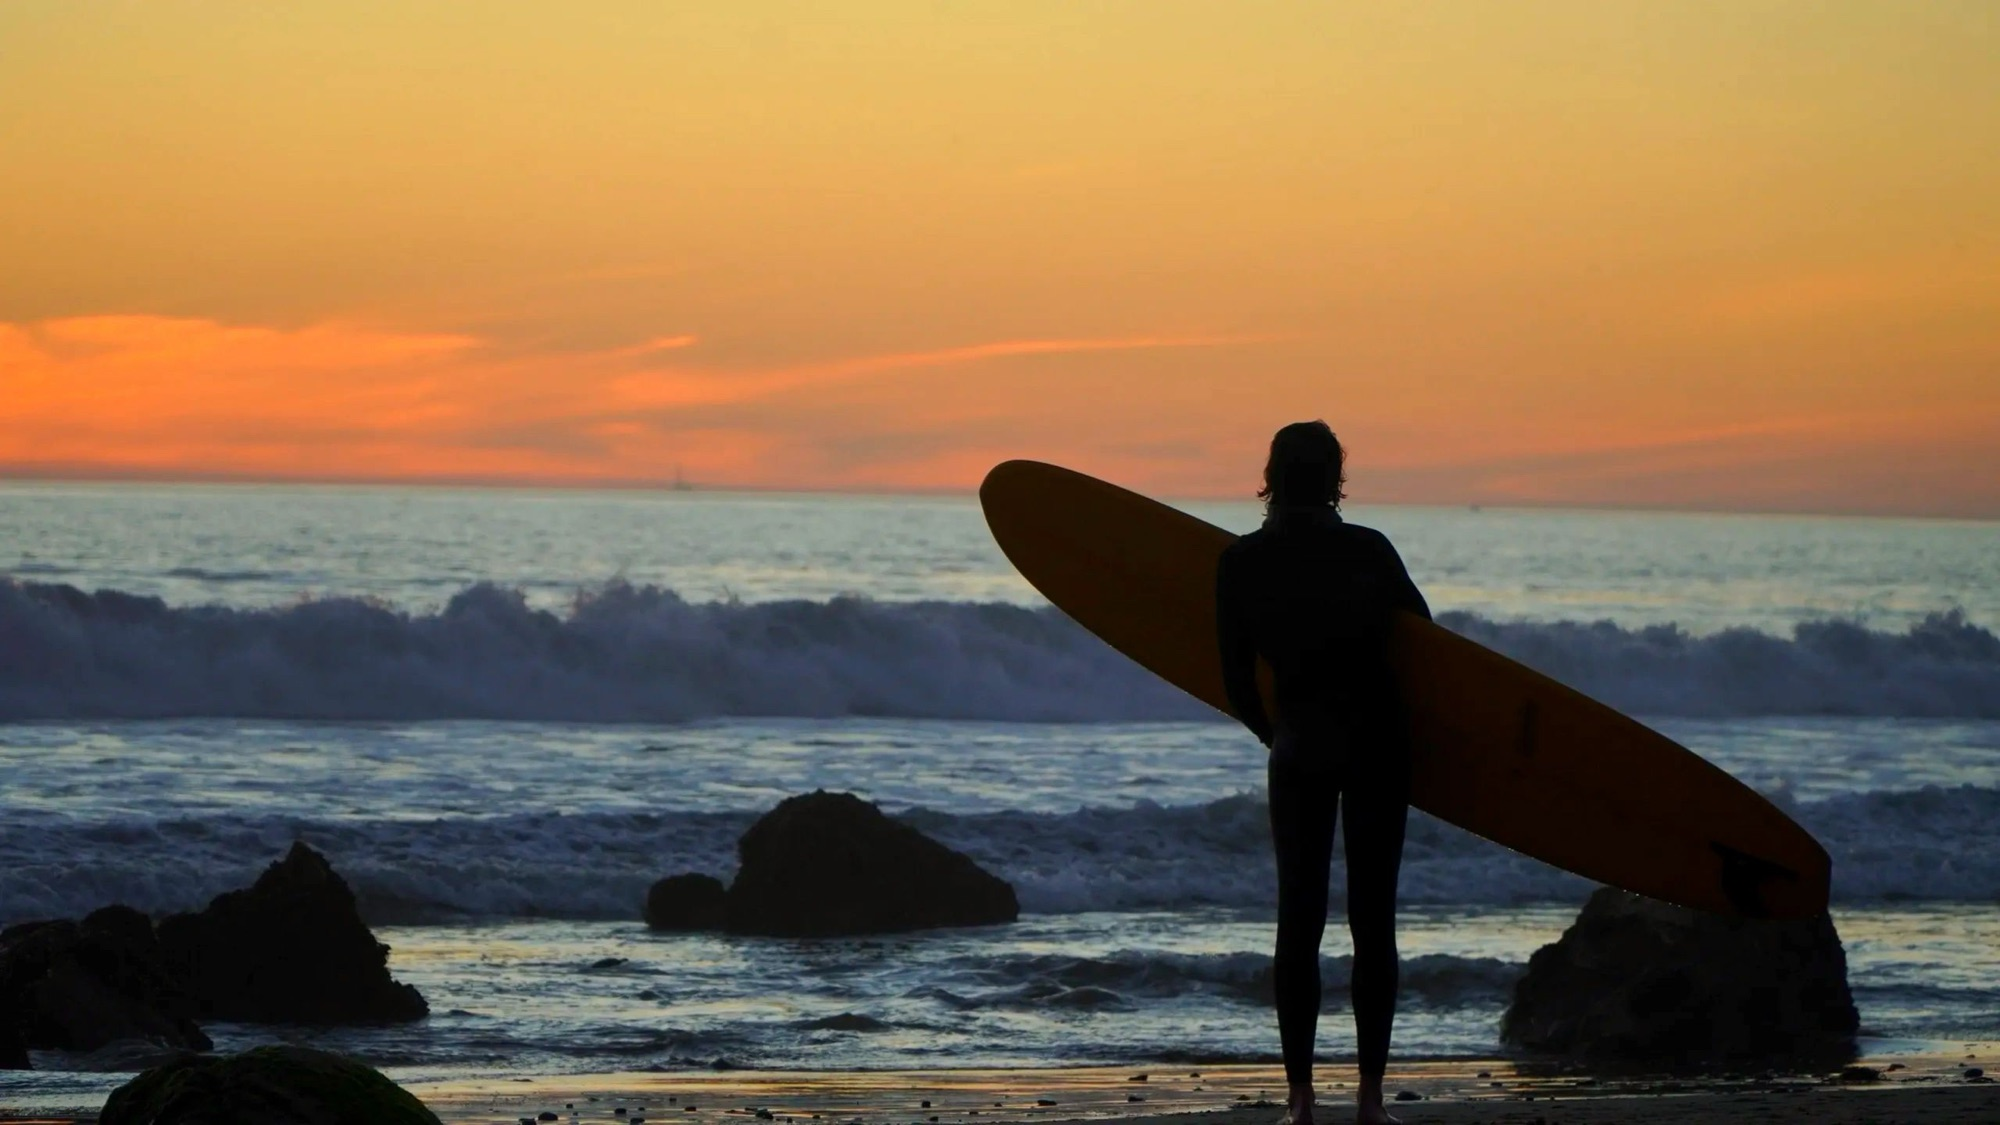
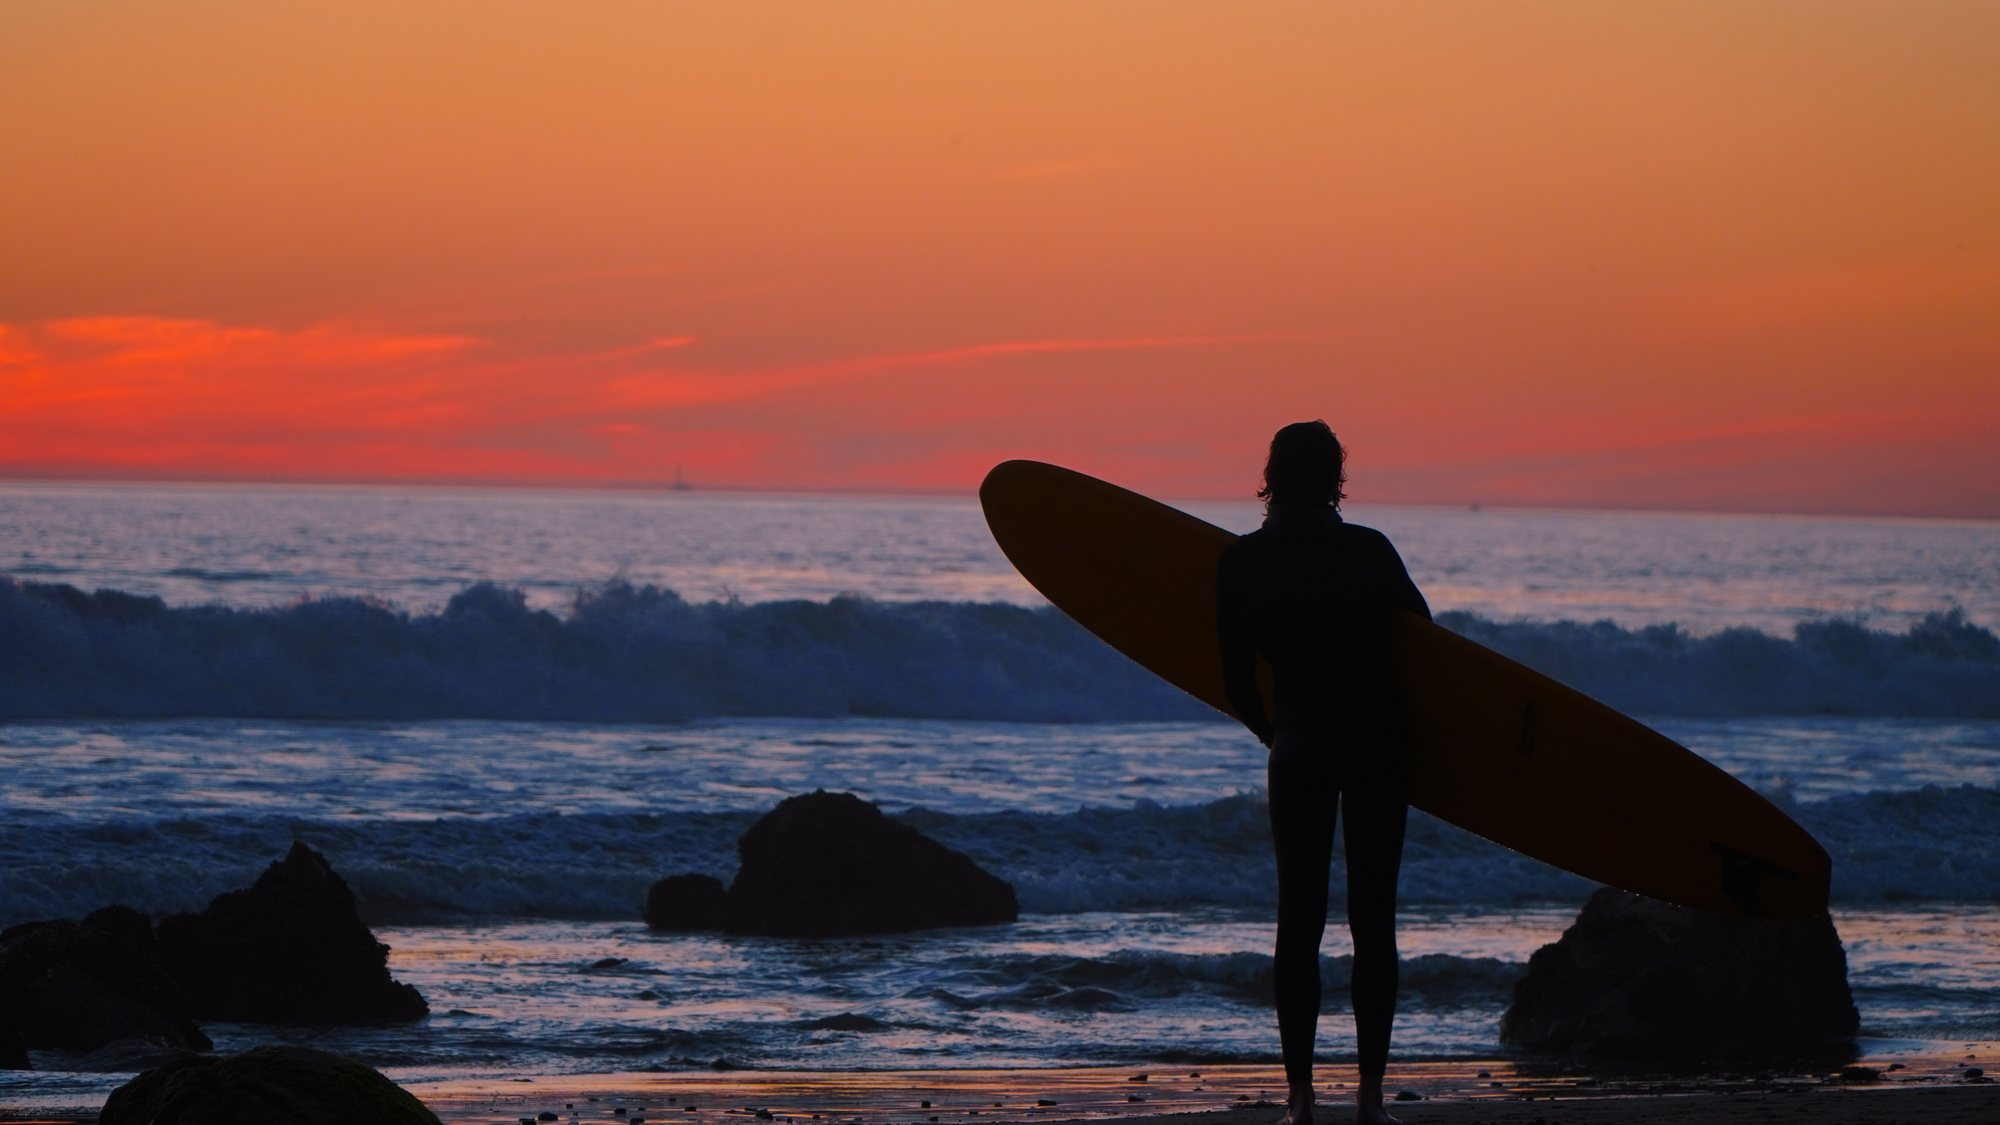
Dawn Patrol from the 12000 px edit; Green Water II becomes Copper and Teal
- Dawn Patrol: master is DSC07020-2.jpg (12000 px, the warm edit), so
  all four sizes including 24x36; web images regenerated from it.
- Copper and Teal: the gallery still called it Green Water II (so the
  lightbox couldn't find its shop entry); renamed there and in the
  sitemap. Master is the 8F2519A5 JPG, shown landscape as shot (the old
  web copy was rotated 90 degrees). New web images 15-copper-and-teal.*.

diff --git a/prints/copper-and-teal.html b/prints/copper-and-teal.html
@@ -14,7 +14,7 @@
   <meta property="og:title" content="Copper and Teal | Fine-Art Print | Ox Hollow Media" />
   <meta property="og:description" content="Teal water against oxidised copper-red rock. Archival print, made to order, free US shipping." />
   <meta property="og:url" content="https://oxhollowmedia.com/prints/copper-and-teal" />
-  <meta property="og:image" content="https://oxhollowmedia.com/images/portfolio/ocean/15-green-water-ii.jpg" />
+  <meta property="og:image" content="https://oxhollowmedia.com/images/portfolio/ocean/15-copper-and-teal.jpg" />
   <meta name="twitter:card" content="summary_large_image" />
 
   <link rel="canonical" href="https://oxhollowmedia.com/prints/copper-and-teal" />
@@ -23,7 +23,7 @@
   <link rel="preconnect" href="https://fonts.gstatic.com" crossorigin />
   <link href="https://fonts.googleapis.com/css2?family=Cormorant+Garamond:ital,wght@0,400;0,500;0,600;1,400;1,500&family=DM+Sans:wght@300;400;500&display=swap" rel="stylesheet" />
   <link rel="stylesheet" href="/css/styles.css?v=44" />
-  <script type="application/ld+json">{"@context": "https://schema.org", "@type": "Product", "name": "Copper and Teal", "description": "Teal water against oxidised copper-red rock.", "image": "https://oxhollowmedia.com/images/portfolio/ocean/15-green-water-ii.jpg", "brand": {"@type": "Brand", "name": "Ox Hollow Media"}, "offers": [{"@type": "Offer", "name": "8×12″ archival print", "price": "35", "priceCurrency": "USD", "availability": "https://schema.org/InStock", "url": "https://oxhollowmedia.com/prints/copper-and-teal", "shippingDetails": {"@type": "OfferShippingDetails", "shippingRate": {"@type": "MonetaryAmount", "value": "0", "currency": "USD"}, "shippingDestination": {"@type": "DefinedRegion", "addressCountry": "US"}}}, {"@type": "Offer", "name": "12×18″ archival print", "price": "50", "priceCurrency": "USD", "availability": "https://schema.org/InStock", "url": "https://oxhollowmedia.com/prints/copper-and-teal", "shippingDetails": {"@type": "OfferShippingDetails", "shippingRate": {"@type": "MonetaryAmount", "value": "0", "currency": "USD"}, "shippingDestination": {"@type": "DefinedRegion", "addressCountry": "US"}}}, {"@type": "Offer", "name": "16×24″ archival print", "price": "55", "priceCurrency": "USD", "availability": "https://schema.org/InStock", "url": "https://oxhollowmedia.com/prints/copper-and-teal", "shippingDetails": {"@type": "OfferShippingDetails", "shippingRate": {"@type": "MonetaryAmount", "value": "0", "currency": "USD"}, "shippingDestination": {"@type": "DefinedRegion", "addressCountry": "US"}}}]}</script>
+  <script type="application/ld+json">{"@context": "https://schema.org", "@type": "Product", "name": "Copper and Teal", "description": "Teal water against oxidised copper-red rock.", "image": "https://oxhollowmedia.com/images/portfolio/ocean/15-copper-and-teal.jpg", "brand": {"@type": "Brand", "name": "Ox Hollow Media"}, "offers": [{"@type": "Offer", "name": "8×12″ archival print", "price": "35", "priceCurrency": "USD", "availability": "https://schema.org/InStock", "url": "https://oxhollowmedia.com/prints/copper-and-teal", "shippingDetails": {"@type": "OfferShippingDetails", "shippingRate": {"@type": "MonetaryAmount", "value": "0", "currency": "USD"}, "shippingDestination": {"@type": "DefinedRegion", "addressCountry": "US"}}}, {"@type": "Offer", "name": "12×18″ archival print", "price": "50", "priceCurrency": "USD", "availability": "https://schema.org/InStock", "url": "https://oxhollowmedia.com/prints/copper-and-teal", "shippingDetails": {"@type": "OfferShippingDetails", "shippingRate": {"@type": "MonetaryAmount", "value": "0", "currency": "USD"}, "shippingDestination": {"@type": "DefinedRegion", "addressCountry": "US"}}}, {"@type": "Offer", "name": "16×24″ archival print", "price": "55", "priceCurrency": "USD", "availability": "https://schema.org/InStock", "url": "https://oxhollowmedia.com/prints/copper-and-teal", "shippingDetails": {"@type": "OfferShippingDetails", "shippingRate": {"@type": "MonetaryAmount", "value": "0", "currency": "USD"}, "shippingDestination": {"@type": "DefinedRegion", "addressCountry": "US"}}}]}</script>
 </head>
 <body class="light-nav">
 
@@ -69,7 +69,7 @@
       <p class="crumb"><a href="/prints">← All prints</a></p>
       <div class="detail-grid">
         <div class="detail-frame">
-          <picture><source type="image/webp" srcset="/images/portfolio/ocean/15-green-water-ii.webp"><img src="/images/portfolio/ocean/15-green-water-ii.jpg" width="1600" height="2000" decoding="async" alt="Teal water against oxidised copper-red rock" fetchpriority="high"></picture>
+          <picture><source type="image/webp" srcset="/images/portfolio/ocean/15-copper-and-teal.webp"><img src="/images/portfolio/ocean/15-copper-and-teal.jpg" width="2000" height="1600" decoding="async" alt="Teal water against oxidised copper-red rock" fetchpriority="high"></picture>
         </div>
         <div class="detail-buy">
           <p class="section-label">Fine art print</p>

diff --git a/prints/dawn-patrol.html b/prints/dawn-patrol.html
@@ -23,7 +23,7 @@
   <link rel="preconnect" href="https://fonts.gstatic.com" crossorigin />
   <link href="https://fonts.googleapis.com/css2?family=Cormorant+Garamond:ital,wght@0,400;0,500;0,600;1,400;1,500&family=DM+Sans:wght@300;400;500&display=swap" rel="stylesheet" />
   <link rel="stylesheet" href="/css/styles.css?v=44" />
-  <script type="application/ld+json">{"@context": "https://schema.org", "@type": "Product", "name": "Dawn Patrol", "description": "A surfer holding a longboard at the water's edge, silhouetted against a sunset sky.", "image": "https://oxhollowmedia.com/images/portfolio/ocean/22-dawn-patrol.jpg", "brand": {"@type": "Brand", "name": "Ox Hollow Media"}, "offers": [{"@type": "Offer", "name": "8×12″ archival print", "price": "35", "priceCurrency": "USD", "availability": "https://schema.org/InStock", "url": "https://oxhollowmedia.com/prints/dawn-patrol", "shippingDetails": {"@type": "OfferShippingDetails", "shippingRate": {"@type": "MonetaryAmount", "value": "0", "currency": "USD"}, "shippingDestination": {"@type": "DefinedRegion", "addressCountry": "US"}}}, {"@type": "Offer", "name": "12×18″ archival print", "price": "50", "priceCurrency": "USD", "availability": "https://schema.org/InStock", "url": "https://oxhollowmedia.com/prints/dawn-patrol", "shippingDetails": {"@type": "OfferShippingDetails", "shippingRate": {"@type": "MonetaryAmount", "value": "0", "currency": "USD"}, "shippingDestination": {"@type": "DefinedRegion", "addressCountry": "US"}}}, {"@type": "Offer", "name": "16×24″ archival print", "price": "55", "priceCurrency": "USD", "availability": "https://schema.org/InStock", "url": "https://oxhollowmedia.com/prints/dawn-patrol", "shippingDetails": {"@type": "OfferShippingDetails", "shippingRate": {"@type": "MonetaryAmount", "value": "0", "currency": "USD"}, "shippingDestination": {"@type": "DefinedRegion", "addressCountry": "US"}}}]}</script>
+  <script type="application/ld+json">{"@context": "https://schema.org", "@type": "Product", "name": "Dawn Patrol", "description": "A surfer holding a longboard at the water's edge, silhouetted against a sunset sky.", "image": "https://oxhollowmedia.com/images/portfolio/ocean/22-dawn-patrol.jpg", "brand": {"@type": "Brand", "name": "Ox Hollow Media"}, "offers": [{"@type": "Offer", "name": "8×12″ archival print", "price": "35", "priceCurrency": "USD", "availability": "https://schema.org/InStock", "url": "https://oxhollowmedia.com/prints/dawn-patrol", "shippingDetails": {"@type": "OfferShippingDetails", "shippingRate": {"@type": "MonetaryAmount", "value": "0", "currency": "USD"}, "shippingDestination": {"@type": "DefinedRegion", "addressCountry": "US"}}}, {"@type": "Offer", "name": "12×18″ archival print", "price": "50", "priceCurrency": "USD", "availability": "https://schema.org/InStock", "url": "https://oxhollowmedia.com/prints/dawn-patrol", "shippingDetails": {"@type": "OfferShippingDetails", "shippingRate": {"@type": "MonetaryAmount", "value": "0", "currency": "USD"}, "shippingDestination": {"@type": "DefinedRegion", "addressCountry": "US"}}}, {"@type": "Offer", "name": "16×24″ archival print", "price": "55", "priceCurrency": "USD", "availability": "https://schema.org/InStock", "url": "https://oxhollowmedia.com/prints/dawn-patrol", "shippingDetails": {"@type": "OfferShippingDetails", "shippingRate": {"@type": "MonetaryAmount", "value": "0", "currency": "USD"}, "shippingDestination": {"@type": "DefinedRegion", "addressCountry": "US"}}}, {"@type": "Offer", "name": "24×36″ archival print", "price": "70", "priceCurrency": "USD", "availability": "https://schema.org/InStock", "url": "https://oxhollowmedia.com/prints/dawn-patrol", "shippingDetails": {"@type": "OfferShippingDetails", "shippingRate": {"@type": "MonetaryAmount", "value": "0", "currency": "USD"}, "shippingDestination": {"@type": "DefinedRegion", "addressCountry": "US"}}}]}</script>
 </head>
 <body class="light-nav">
 
@@ -85,6 +85,9 @@
             </a>
             <a class="buy-btn is-pending" data-slug="dawn-patrol" data-size="16x24" href="/contact?print=Dawn%20Patrol%20%2816%C3%9724%29">
               <span class="size">Buy 16×24″</span><span class="price">$55</span>
+            </a>
+            <a class="buy-btn is-pending" data-slug="dawn-patrol" data-size="24x36" href="/contact?print=Dawn%20Patrol%20%2824%C3%9736%29">
+              <span class="size">Buy 24×36″</span><span class="price">$70</span>
             </a>
           </div>
           <p class="buy-note"><strong>Free US shipping.</strong> Each print is made to order on archival paper. Allow a few days for printing plus transit. Arrives damaged or wrong? Email a photo within 14 days and I'll send a free replacement. <a href="/shipping-returns">Shipping &amp; returns</a>. Questions, other sizes, or framing? <a href="/contact?print=Dawn%20Patrol">Get in touch</a>.</p>

diff --git a/gallery.html b/gallery.html
@@ -137,7 +137,7 @@
         <a class="masonry-item" data-cat="portraits"    href="/contact?print=Scientist%20with%20Sample"><picture><source type="image/webp" srcset="images/portfolio/people/03-scientist-with-sample.webp"><img src="images/portfolio/people/03-scientist-with-sample.jpg" width="2000" height="1125" decoding="async" alt="Marine scientist holding up a specimen jar aboard a research vessel" loading="lazy"></picture><div class="cap"><span class="cap-cat">Portraits</span><div class="cap-title">Scientist with Sample</div></div></a>
         <a class="masonry-item" data-cat="ocean" data-new="1" href="/contact?print=Green%20Water%20I"><picture><source type="image/webp" srcset="images/portfolio/ocean/14-green-water-i.webp"><img src="images/portfolio/ocean/14-green-water-i.jpg" width="1599" height="2000" decoding="async" alt="Abstract of green and white water flowing over dark rock" loading="lazy"></picture><div class="cap"><span class="cap-cat">Ocean</span><div class="cap-title">Green Water I</div></div></a>
         <a class="masonry-item" data-cat="forests" href="/contact?print=Winter%20Bark"><picture><source type="image/webp" srcset="images/portfolio/mountains/06-winter-bark.webp"><img src="images/portfolio/mountains/06-winter-bark.jpg" width="1125" height="2000" decoding="async" alt="Snow-dusted bark of an old conifer" loading="lazy"></picture><div class="cap"><span class="cap-cat">Forests</span><div class="cap-title">Winter Bark</div></div></a>
-        <a class="masonry-item" data-cat="ocean" data-new="1" href="/contact?print=Green%20Water%20II"><picture><source type="image/webp" srcset="images/portfolio/ocean/15-green-water-ii.webp"><img src="images/portfolio/ocean/15-green-water-ii.jpg" width="1600" height="2000" decoding="async" alt="Abstract of teal water against oxidised red rock" loading="lazy"></picture><div class="cap"><span class="cap-cat">Ocean</span><div class="cap-title">Green Water II</div></div></a>
+        <a class="masonry-item" data-cat="ocean" data-new="1" href="/contact?print=Copper%20and%20Teal"><picture><source type="image/webp" srcset="images/portfolio/ocean/15-copper-and-teal.webp"><img src="images/portfolio/ocean/15-copper-and-teal.jpg" width="2000" height="1600" decoding="async" alt="Teal water against oxidised copper-red rock" loading="lazy"></picture><div class="cap"><span class="cap-cat">Ocean</span><div class="cap-title">Copper and Teal</div></div></a>
         <a class="masonry-item" data-cat="botanical"    href="/contact?print=Petunia%2C%20Veined"><picture><source type="image/webp" srcset="images/portfolio/botanical/06-petunia-veined.webp"><img src="images/portfolio/botanical/06-petunia-veined.jpg" width="2000" height="1333" decoding="async" alt="Purple petunias with dark veining, backlit" loading="lazy"></picture><div class="cap"><span class="cap-cat">Botanical</span><div class="cap-title">Petunia, Veined</div></div></a>
         <a class="masonry-item" data-cat="ocean" data-new="1" href="/contact?print=Tidepool%20Ledge"><picture><source type="image/webp" srcset="images/portfolio/ocean/16-tidepool-ledge.webp"><img src="images/portfolio/ocean/16-tidepool-ledge.jpg" width="1599" height="2000" decoding="async" alt="Teal tidepool water beneath a dark rock ledge" loading="lazy"></picture><div class="cap"><span class="cap-cat">Ocean</span><div class="cap-title">Tidepool Ledge</div></div></a>
         <a class="masonry-item" data-cat="ocean"     href="/contact?print=Shorebreak%20Boulders"><picture><source type="image/webp" srcset="images/portfolio/ocean/05-shorebreak-boulders.webp"><img src="images/portfolio/ocean/05-shorebreak-boulders.jpg" width="2000" height="924" decoding="async" alt="Waves breaking over mossy shoreline boulders" loading="lazy"></picture><div class="cap"><span class="cap-cat">Ocean</span><div class="cap-title">Shorebreak Boulders</div></div></a>

diff --git a/prints/index.html b/prints/index.html
@@ -211,7 +211,7 @@
               <picture><source type="image/webp" srcset="/images/portfolio/ocean/22-dawn-patrol.webp"><img src="/images/portfolio/ocean/22-dawn-patrol.jpg" width="2000" height="1125" decoding="async" alt="A surfer holding a longboard at the water&#x27;s edge, silhouetted against a sunset sky" loading="lazy"></picture>
             </a>
             <h3>Dawn Patrol</h3>
-            <p class="print-spec">Archival matte paper · 8×12″ $35 · 12×18″ $50 · 16×24″ $55</p>
+            <p class="print-spec">Archival matte paper · 8×12″ $35 · 12×18″ $50 · 16×24″ $55 · 24×36″ $70</p>
             <a class="print-cta" href="/prints/dawn-patrol">→ View details &amp; buy</a>
           </div>
           <div class="print-card">
@@ -240,7 +240,7 @@
           </div>
           <div class="print-card">
             <a class="print-mat" href="/prints/copper-and-teal">
-              <picture><source type="image/webp" srcset="/images/portfolio/ocean/15-green-water-ii.webp"><img src="/images/portfolio/ocean/15-green-water-ii.jpg" width="1600" height="2000" decoding="async" alt="Teal water against oxidised copper-red rock" loading="lazy"></picture>
+              <picture><source type="image/webp" srcset="/images/portfolio/ocean/15-copper-and-teal.webp"><img src="/images/portfolio/ocean/15-copper-and-teal.jpg" width="2000" height="1600" decoding="async" alt="Teal water against oxidised copper-red rock" loading="lazy"></picture>
             </a>
             <h3>Copper and Teal</h3>
             <p class="print-spec">Archival matte paper · 8×12″ $35 · 12×18″ $50 · 16×24″ $55</p>

diff --git a/prints/turquoise-shallows.html b/prints/turquoise-shallows.html
@@ -103,7 +103,7 @@
       <div class="more-grid">
         <div class="print-card">
           <a class="print-mat" href="/prints/copper-and-teal">
-            <picture><source type="image/webp" srcset="/images/portfolio/ocean/15-green-water-ii.webp"><img src="/images/portfolio/ocean/15-green-water-ii.jpg" width="1600" height="2000" decoding="async" alt="Teal water against oxidised copper-red rock" loading="lazy"></picture>
+            <picture><source type="image/webp" srcset="/images/portfolio/ocean/15-copper-and-teal.webp"><img src="/images/portfolio/ocean/15-copper-and-teal.jpg" width="2000" height="1600" decoding="async" alt="Teal water against oxidised copper-red rock" loading="lazy"></picture>
           </a>
           <h3>Copper and Teal</h3>
         </div>

diff --git a/prints/green-water-i.html b/prints/green-water-i.html
@@ -106,7 +106,7 @@
         </div>
         <div class="print-card">
           <a class="print-mat" href="/prints/copper-and-teal">
-            <picture><source type="image/webp" srcset="/images/portfolio/ocean/15-green-water-ii.webp"><img src="/images/portfolio/ocean/15-green-water-ii.jpg" width="1600" height="2000" decoding="async" alt="Teal water against oxidised copper-red rock" loading="lazy"></picture>
+            <picture><source type="image/webp" srcset="/images/portfolio/ocean/15-copper-and-teal.webp"><img src="/images/portfolio/ocean/15-copper-and-teal.jpg" width="2000" height="1600" decoding="async" alt="Teal water against oxidised copper-red rock" loading="lazy"></picture>
           </a>
           <h3>Copper and Teal</h3>
         </div>

diff --git a/prints/shorebreak-boulders.html b/prints/shorebreak-boulders.html
@@ -112,7 +112,7 @@
         </div>
         <div class="print-card">
           <a class="print-mat" href="/prints/copper-and-teal">
-            <picture><source type="image/webp" srcset="/images/portfolio/ocean/15-green-water-ii.webp"><img src="/images/portfolio/ocean/15-green-water-ii.jpg" width="1600" height="2000" decoding="async" alt="Teal water against oxidised copper-red rock" loading="lazy"></picture>
+            <picture><source type="image/webp" srcset="/images/portfolio/ocean/15-copper-and-teal.webp"><img src="/images/portfolio/ocean/15-copper-and-teal.jpg" width="2000" height="1600" decoding="async" alt="Teal water against oxidised copper-red rock" loading="lazy"></picture>
           </a>
           <h3>Copper and Teal</h3>
         </div>
